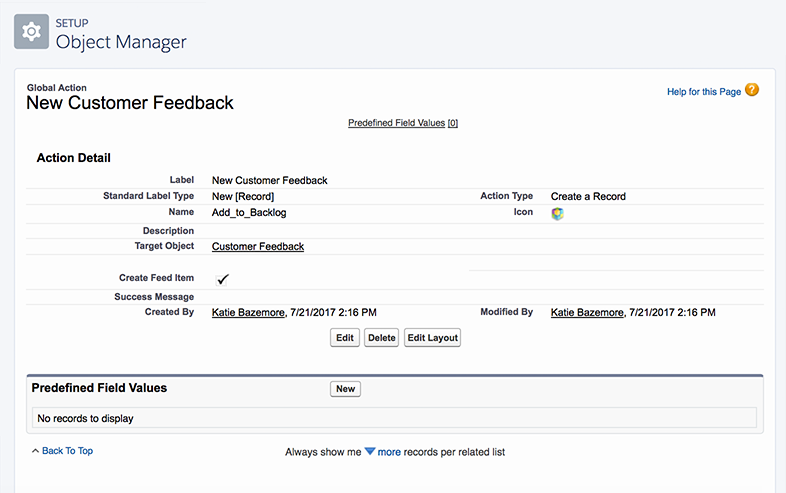
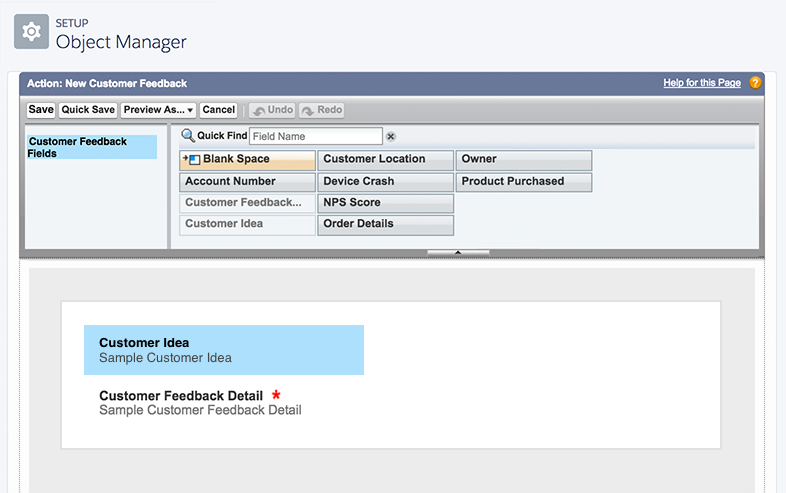
work on story 1

Changed region(s): [[0.0, 0.1217, 0.9771, 0.9432]]

diff --git a/src/app/4-customize-mobile/partials/1-create-a-custom-action.html b/src/app/4-customize-mobile/partials/1-create-a-custom-action.html
@@ -9,33 +9,43 @@
           </wz-step>
           <wz-step>
             <div class="step step-1">
-              <div class="click-box active" ng-click="Next()"></div>
+              <div class="click-box active" li-autofocus="wizard.stateIndex == 1"  ng-click="next()"></div>
             </div>
           </wz-step>
           <wz-step>
             <div class="step step-2">
-              <select name="process-starts" id="target-object" ng-model="action.target" ng-options="opt as opt.label for opt in targetObjects"></select>
-              <div class="click-box active" ng-click="Next()"></div>
+              <select class="active" li-autofocus="wizard.stateIndex == 2" name="process-starts" id="target-object" ng-model="action.target" ng-options="opt as opt.label for opt in targetObjects"></select>
             </div>
           </wz-step>
           <wz-step>
             <div class="step step-3">
-              <div class="click-box active" ng-click="Next()"></div>
+              <img class="customer-idea-drag active" data-drag="true" jqyoui-draggable="{index: 0, animate:true}" data-jqyoui-options="{revert: 'invalid'}"
+                src="../assets/1-create-a-custom-action-drag-customer-idea.png" />
+              <div class="drop-box active" data-drop="true" jqyoui-droppable="{index: 1 , onDrop:'next'}"></div>
+            </div>
+          </wz-step>
+          <wz-step>
+            <div class="step step-4">
+              <div class="click-box active" ng-click="next()"></div>
+            </div>
+          </wz-step>
+          <wz-step>
+            <div class="step step-5">
+              <div class="click-box active" ng-click="next()"></div>
             </div>
           </wz-step>
           <wz-step success="true">
             <div class="step success">
               <li-center>
                 <p>
-                  <img src="../../../assets/images/badge.png"/>
+                  <img src="../../../assets/images/success.png" />
                 </p>
-                <h2>Nice Work!</h2>
+                <h2>Success!</h2>
                 <p>
-                  Now that you've gotten to look at Jeremy Jones' prospect profile in Pardot,<br/>
-                  let's start working on your first Lead Nurturing campaign so you can keep in touch with him.
+                  Our push notification is ready to go. How do our app users access it? Let's jump back into Lighting App Builder to see.
                 </p>
                 <p>
-                  <a ui-sref="engagement-studio" li-autofocus="wizard.stateIndex == 3" class="btn btn-rounded active">Continue</a>
+                  <a ui-sref="engagement-studio" li-autofocus="wizard.stateIndex == 6" class="btn btn-rounded active">Continue</a>
                 </p>
               </li-center>
             </div>

diff --git a/src/app/4-customize-mobile/styles/_1-create-a-custom-action.scss b/src/app/4-customize-mobile/styles/_1-create-a-custom-action.scss
@@ -25,13 +25,15 @@
     background: url('../app/4-customize-mobile/assets/1-create-a-custom-action-screen-bkg-2.png') center center no-repeat;
 
 
-      .click-box {
+      select {
         position: absolute;
-        top: 156px;
-        left: 330px;
-        width: 85px;
-        height: 25px;
+        top: 201px;
+        left: 234px;
+        width: 145px;
+        height: 20px;
         border-radius: 5px;
+        font-size: 13px;
+        font-weight: 800;
         &.active {
           animation: borderActive 1.5s infinite;
           cursor: pointer;
@@ -41,24 +43,31 @@
   }
 
   .step-3 {
-    background: url('../app/4-customize-mobile/assets/1-create-a-custom-action-screen-bkg-3a.png') center center no-repeat;
+    background: url('../app/4-customize-mobile/assets/1-create-a-custom-action-screen-bkg-3.png') center center no-repeat;
 
-    .click-box {
+    .customer-idea-drag {
       position: absolute;
-      top: 156px;
-      left: 330px;
-      width: 85px;
-      height: 25px;
+      bottom: 257px;
+      left: 179px;
+      border-radius: 4px;
+      &.active {
+        animation: borderActive 1.5s infinite;
+        cursor: move;
+      }
+    }
+
+
+    .drop-box {
+      position: absolute;
+      top: 298px;
+      left: 60px;
+      width: 663px;
+      height: 107px;
       border-radius: 5px;
       &.active {
         animation: borderActive 1.5s infinite;
         cursor: pointer;
       }
-    }
-
-
-    &.dropped {
-      background: url('../app/4-customize-mobile/assets/1-create-a-custom-action-screen-bkg-3b.png') center center no-repeat;
     }
   }
   .step-4 {
@@ -66,10 +75,10 @@
 
     .click-box {
       position: absolute;
-      top: 156px;
-      left: 330px;
-      width: 85px;
-      height: 25px;
+      top: 100px;
+      left: 26px;
+      width: 31px;
+      height: 18px;
       border-radius: 5px;
       &.active {
         animation: borderActive 1.5s infinite;
@@ -78,6 +87,20 @@
     }
   }
 
+  .step-5 {
+    background: url('../app/4-customize-mobile/assets/1-create-a-custom-action-screen-bkg-5.png') center center no-repeat;
 
-
+    .click-box {
+      position: absolute;
+      top: 380px;
+      left: 330px;
+      width: 31px;
+      height: 16px;
+      border-radius: 5px;
+      &.active {
+        animation: borderActive 1.5s infinite;
+        cursor: pointer;
+      }
+    }
+  }
 }

diff --git a/src/app/4-customize-mobile/controllers/1-create-a-custom-action.controller.js b/src/app/4-customize-mobile/controllers/1-create-a-custom-action.controller.js
@@ -2,13 +2,23 @@
 
 export default function CreateACustomActionController($scope, Steps, WizardHandler) {
   $scope.targetObjects = [
-    {label: 'Select one', value: 1},
-    {label: 'A record changes', value: 2},
-    {label: 'Its invoked by another process', value: 3}
+    {label: '-- None --', value: 1},
+    {label: 'Customer Feedback', value: 2}
   ];
 
-  $scope.Next = function () {
-    // $log.log('Current step: ' + WizardHandler.wizard('monitor').currentStepNumber());
+  $scope.action = {
+    target: $scope.targetObjects[0]
+  };
+
+  $scope.$watch('action.target', (newValue, oldValue) => {
+    if (newValue !== oldValue) {
+      if (newValue.value === 2) {
+        $scope.next();
+      }
+    }
+  });
+
+  $scope.next = function () {
     if (WizardHandler.wizard('monitor').currentStepNumber() === 1) {
       WizardHandler.wizard('monitor').next();
       Steps.activate('one');
@@ -21,6 +31,11 @@ export default function CreateACustomActionController($scope, Steps, WizardHandl
     } else if (WizardHandler.wizard('monitor').currentStepNumber() === 4) {
       WizardHandler.wizard('monitor').next();
       Steps.activate('four');
+    } else if (WizardHandler.wizard('monitor').currentStepNumber() === 5) {
+      WizardHandler.wizard('monitor').next();
+      Steps.activate('five');
+    } else if (WizardHandler.wizard('monitor').currentStepNumber() === 6) {
+      WizardHandler.wizard('monitor').next();
     }
   };
 }

diff --git a/src/app/4-customize-mobile/controllers/1-create-a-custom-action.drawer.controller.js b/src/app/4-customize-mobile/controllers/1-create-a-custom-action.drawer.controller.js
@@ -14,7 +14,7 @@ export default function CreateACustomActionDrawerController($scope, WizardHandle
     Steps.clear();
     Steps.pop({
       number: 'one',
-      title: ' Click \'New Action\''
+      title: 'We want our users to be able to add customer ideas directly to their team\'s backlog, so we\'ll create an action for it. First, click \'New Action\''
     });
 
     Steps.pop({
@@ -27,30 +27,17 @@ export default function CreateACustomActionDrawerController($scope, WizardHandle
       title: 'Since we want to move the Customer Idea field into our backlog, drag-and-drop it to the active area.'
     });
 
+    Steps.pop({
+      number: 'four',
+      title: 'Click \'Save\' then we\'ll jump back into the Lightning App Builder to put our new action into play.'
+    });
+
+    Steps.pop({
+      number: 'five',
+      title: 'Click \'Next\' to continue.'
+    });
+
     Hotspots.clear();
-    // Hotspots.pop({
-    //   number: 1,
-    //   position: {
-    //     left: '54px',
-    //     top: '391px'
-    //   }
-    // });
-    //
-    // Hotspots.pop({
-    //   number: 2,
-    //   position: {
-    //     left: '140px',
-    //     top: '421px'
-    //   }
-    // });
-    //
-    // Hotspots.pop({
-    //   number: 3,
-    //   position: {
-    //     left: '365px',
-    //     top: '115px'
-    //   }
-    // });
 
     $timeout(() => {
       Steps.activate('one');
